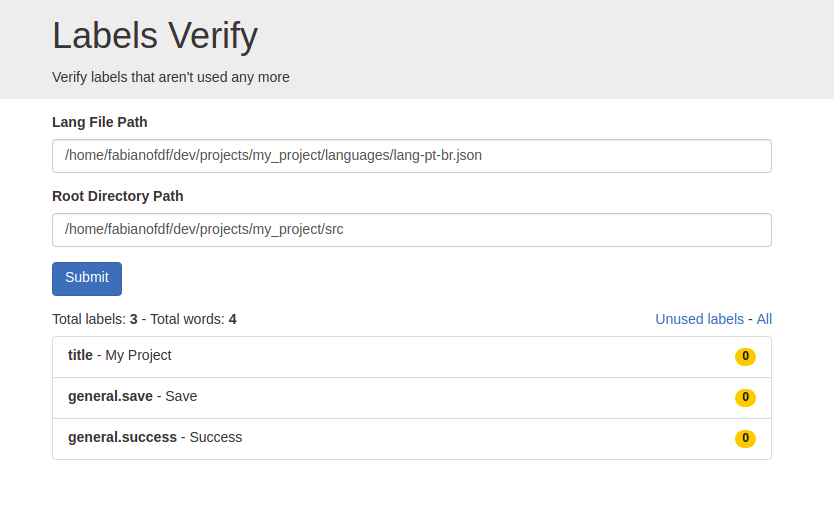
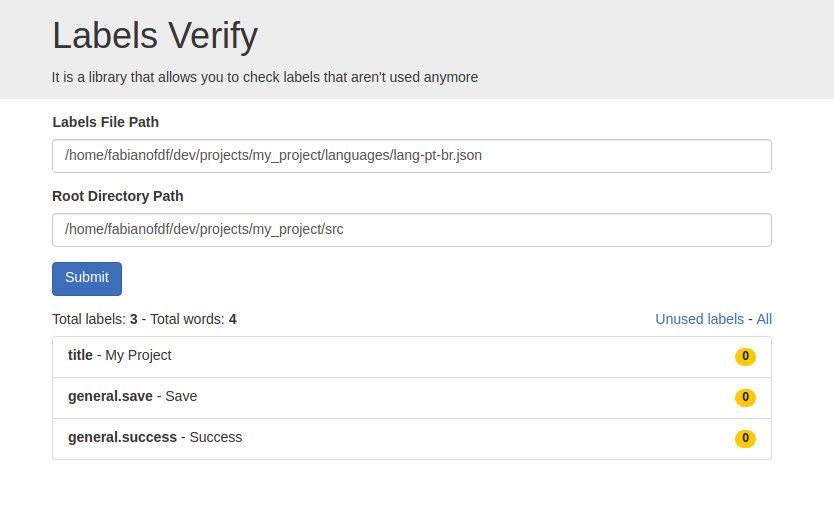
Improvements of documentation.

Changed region(s): [[0.0624, 0.1226, 0.5612, 0.1839], [0.0624, 0.2146, 0.1871, 0.2452]]

diff --git a/app/index.html b/app/index.html
@@ -19,18 +19,18 @@
     <div class="header">
       <div class="container">
         <h1 class="display-5">Labels Verify</h1>
-        <p>Verify labels that aren't used any more</p>
+        <p>It is a library that allows you to check labels that aren't used anymore</p>
       </div>
     </div>
     <div class="container form">
       <form id="form">
         <div class="form-group">
-          <label for="langPath">Lang File Path</label>
-          <input type="text" class="form-control" id="langPath" name="langPath" placeholder="e.g. /home/projects/hotmart/hot-vulcano/languages/pt-BR.i18n.json">
+          <label for="labelsPath">Labels File Path</label>
+          <input type="text" class="form-control" id="labelsPath" name="labelsPath" placeholder="e.g. /home/projects/my-project/languages/pt-br.json">
         </div>
         <div class="form-group">
           <label for="baseDirPath">Root Directory Path</label>
-          <input type="text" class="form-control" id="baseDirPath" name="baseDirPath" placeholder="e.g. /home/projects/hotmart/hot-vulcano/imports/client">
+          <input type="text" class="form-control" id="baseDirPath" name="baseDirPath" placeholder="e.g. /home/projects/my-project/src">
         </div>
         <button type="button" id="submit" class="btn btn-primary">Submit</button>
       </form>
@@ -100,12 +100,12 @@
       }
 
       const setLocalStorage = () => {
-        localStorage.setItem('langPath', form.langPath.value)
+        localStorage.setItem('labelsPath', form.labelsPath.value)
         localStorage.setItem('baseDirPath', form.baseDirPath.value)
       }
 
       const setFormByLocalStorage = () => {
-        form.langPath.value = localStorage.getItem('langPath') || ''
+        form.labelsPath.value = localStorage.getItem('labelsPath') || ''
         form.baseDirPath.value = localStorage.getItem('baseDirPath') || ''
       }
 
@@ -117,7 +117,7 @@
             'Content-Type': 'application/json'
           },
           body: JSON.stringify({
-            langPath: form.langPath.value,
+            labelsPath: form.labelsPath.value,
             baseDirPath: form.baseDirPath.value
           })
         }

diff --git a/bin/logger.js b/bin/logger.js
@@ -36,8 +36,9 @@ exports.Logger = class Logger {
       return maxlength > argLength ? maxlength : argLength
     }, 0)
 
-    console.log(`\n${LIB_TITLE} ${colors.bgMagenta(' ARGUMENTS ')}\n`)
-
+    console.log(`\n${LIB_TITLE} ${colors.bgCyan(' HELP ')}\n`)
+    console.log(colors.white(' It is a library that allows you to check labels that aren\'t used anymore.'), '\n');
+    console.log(colors.cyan(' Arguments'), '\n');
     commands.forEach(({name, alias, description}) => {
       name = ` --${name}`
       alias = alias ? ` -${alias}` : ''
@@ -46,6 +47,7 @@ exports.Logger = class Logger {
       console.log(fullName, description)
     })
 
+    console.log('\n', colors.cyan('Documentation on:'), colors.blue('https://github.com/fabianofdf/labels-verify'));
     console.log('')
   }
 

diff --git a/server.js b/server.js
@@ -11,10 +11,10 @@ app.use(bodyParser.json());
 app.use(express.static(__dirname + "/app")); //use static files in ROOT/public folder
 
 app.post("/analyse", function(req, res){
-  const { langPath, baseDirPath } = req.body
+  const { labelsPath, baseDirPath } = req.body
 
   try {
-    const labels = labelsVerify(langPath, baseDirPath, [])
+    const labels = labelsVerify(labelsPath, baseDirPath, [])
     res.header("Content-Type", "text/json");
     res.send(labels);
   } catch (err) {

diff --git a/README.md b/README.md
@@ -1,5 +1,5 @@
 # labels-verify
-Verify labels that aren't used any more
+It is a library that allows you to check labels that aren't used anymore
 
 ## CLI
 
